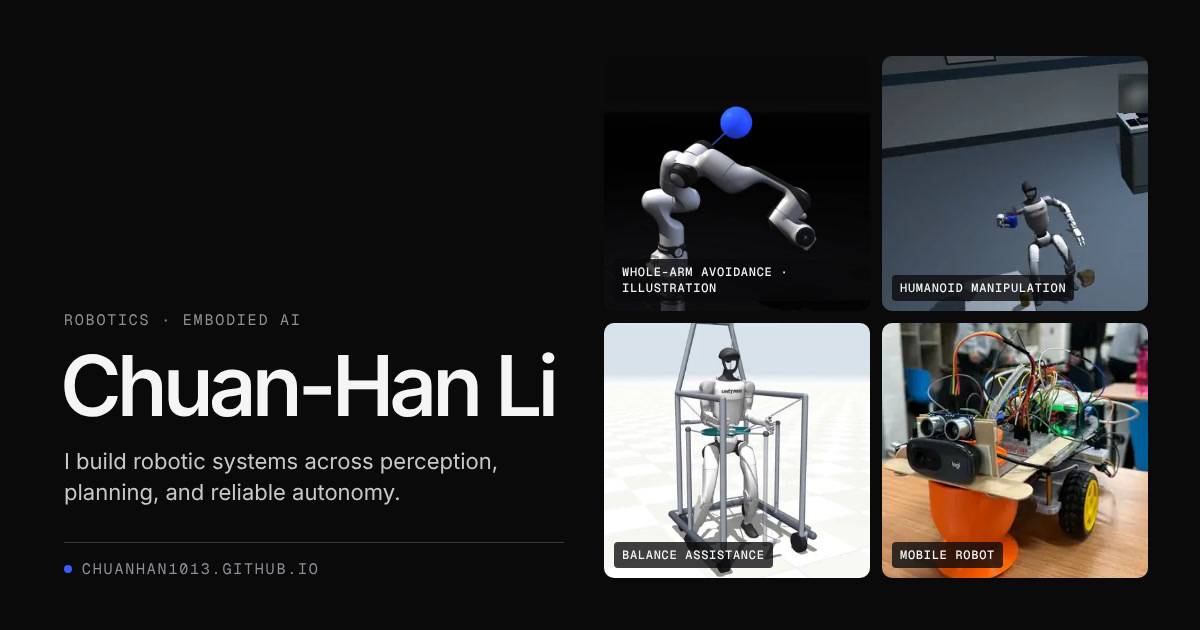
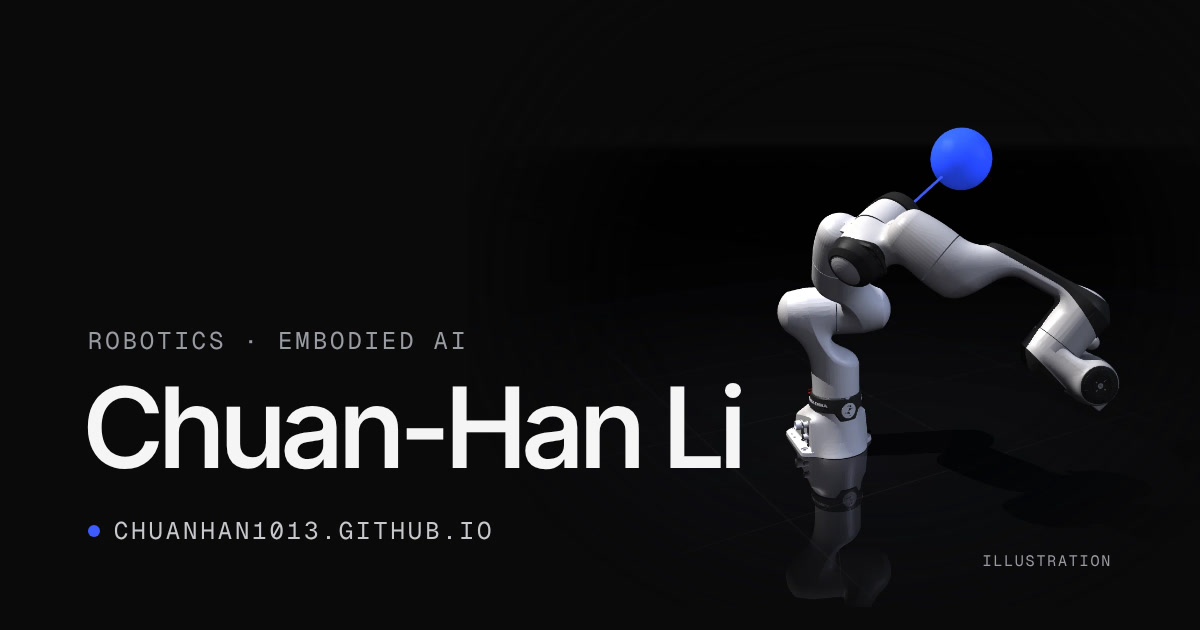
Social preview card for small sizes; cleaning robot score out of 120
- The preview card is one line of large type and the arm illustration, so it
  still reads as a LinkedIn thumbnail.
- Cleaning robot: 113 / 120, among the top teams.

Claude-Session: https://claude.ai/code/session_01Mr7K3GKAexz3gMKH58bcbh

diff --git a/docs/og/og-image.html b/docs/og/og-image.html
@@ -2,6 +2,11 @@
 <html>
   <head>
     <meta charset="utf-8" />
+    <!--
+      Social preview card (1200×630). Designed for small sizes: LinkedIn shows it as a thumbnail
+      a few hundred pixels wide and may trim the sides, so it carries one line of large type and
+      one image, kept inside a wide margin.
+    -->
     <style>
       @font-face {
         font-family: Inter;
@@ -20,115 +25,70 @@
         margin: 0;
       }
       body {
-        display: grid;
-        grid-template-columns: 500px 1fr;
-        gap: 40px;
+        position: relative;
         width: 1200px;
         height: 630px;
-        padding: 56px 52px 52px 64px;
         overflow: hidden;
         background: #0a0a0b;
         color: #f5f5f6;
         font-family: Inter, sans-serif;
       }
-      .l {
-        display: flex;
-        flex-direction: column;
-        justify-content: flex-end;
+      .arm {
+        position: absolute;
+        top: -38px;
+        right: -128px;
+        width: 860px;
+        mask-image: radial-gradient(ellipse 50% 58% at 47% 48%, #000 52%, transparent 100%);
+      }
+      .text {
+        position: absolute;
+        bottom: 84px;
+        left: 88px;
       }
       .mono {
-        color: #8f9197;
+        color: #9a9ca3;
         font-family: 'Geist Mono', monospace;
-        font-size: 15px;
+        font-size: 24px;
         letter-spacing: 0.12em;
         text-transform: uppercase;
       }
       h1 {
-        margin: 18px 0 0 -4px;
-        font-size: 84px;
+        margin: 20px 0 0 -6px;
+        font-size: 112px;
         font-weight: 560;
         line-height: 0.92;
         letter-spacing: -0.06em;
         white-space: nowrap;
       }
-      .tag {
-        margin-top: 22px;
-        color: #c8c9cd;
-        font-size: 22px;
-        line-height: 1.4;
-      }
       .url {
         display: flex;
         align-items: center;
-        gap: 10px;
-        margin-top: 34px;
-        padding-top: 16px;
-        border-top: 1px solid #3b3c41;
+        gap: 14px;
+        margin-top: 36px;
+        color: #c8c9cd;
       }
       .url::before {
         content: '';
-        width: 8px;
-        height: 8px;
+        width: 12px;
+        height: 12px;
         border-radius: 50%;
         background: #3d5cff;
       }
-      .g {
-        display: grid;
-        grid-template-columns: 1fr 1fr;
-        grid-template-rows: repeat(2, minmax(0, 1fr));
-        gap: 12px;
-        min-height: 0;
-      }
-      .t {
-        position: relative;
-        overflow: hidden;
-        border-radius: 10px;
-        background: #141416;
-      }
-      .t img {
-        display: block;
-        width: 100%;
-        height: 100%;
-        object-fit: cover;
-      }
-      .t b {
+      .note {
         position: absolute;
-        bottom: 10px;
-        left: 10px;
-        padding: 5px 8px;
-        border-radius: 4px;
-        background: rgba(10, 10, 11, 0.78);
-        color: #f5f5f6;
-        font-family: 'Geist Mono', monospace;
-        font-size: 12px;
-        font-weight: 500;
-        letter-spacing: 0.06em;
-        text-transform: uppercase;
+        right: 88px;
+        bottom: 60px;
+        font-size: 15px;
       }
     </style>
   </head>
   <body>
-    <div class="l">
+    <img class="arm" src="tiles/arm.webp" alt="" />
+    <div class="text">
       <div class="mono">Robotics · Embodied AI</div>
       <h1>Chuan-Han Li</h1>
-      <div class="tag">I build robotic systems across perception, planning, and reliable autonomy.</div>
       <div class="url mono">chuanhan1013.github.io</div>
     </div>
-    <div class="g">
-      <div class="t">
-        <img src="tiles/fr3.webp" style="object-position: 50% 40%" /><b>Whole-arm avoidance · illustration</b>
-      </div>
-      <div class="t">
-        <img src="tiles/vla14.webp" style="object-position: 50% 50%" /><b>Humanoid manipulation</b>
-      </div>
-      <div class="t">
-        <img src="tiles/cp2.webp" style="object-position: 50% 35%" /><b>Balance assistance</b>
-      </div>
-      <div class="t">
-        <img src="../../public/assets/media/cleaning-final.webp" style="object-position: 50% 50%" /><b
-          >Mobile robot</b
-        >
-      </div>
-    </div>
+    <div class="note mono">Illustration</div>
   </body>
 </html>

diff --git a/src/content/projects/cleaning-robot.md b/src/content/projects/cleaning-robot.md
@@ -13,8 +13,8 @@ summary: >-
   wall-following, obstacle sensing, red-zone recognition, and a custom vacuum module developed
   through CAD, airflow simulation, prototyping, and testing.
 results:
-  - { value: 113 pts, label: final score }
-  - { value: 70 pts, label: time-based performance }
+  - { value: 113 / 120, label: 'final competition score, among the top teams' }
+  - { value: 70 pts, label: of the score from time-based performance }
 stack:
   - { label: Raspberry Pi, icon: raspberrypi }
   - { label: Arduino, icon: arduino }
@@ -56,4 +56,5 @@ media:
 - **Vacuum module.** Custom-designed and iterated through CAD, CFD airflow simulation, prototyping
   and testing.
 
-The robot scored 113 points in the final competition, 70 of them from time-based performance.
+The robot scored 113 of 120 points in the final competition, among the top teams, with 70 of
+those points from time-based performance.

diff --git a/docs/og/README.md b/docs/og/README.md
@@ -1,7 +1,10 @@
 # Social preview image
 
 `public/assets/og-image.jpg` (1200×630) is the `og:image` for every page, the picture LinkedIn,
-Slack and X show for a shared link. To regenerate it after changing `og-image.html`:
+Slack and X show for a shared link. It is designed for small sizes: one line of large type and
+one image inside a wide margin, because LinkedIn shows it a few hundred pixels wide and may trim
+the sides. `tiles/arm.webp` is a still from the dark studio scene in
+`docs/illustrations/fr3-avoidance/`. To regenerate it after changing `og-image.html`:
 
 ```bash
 # from this directory, with the site's dependencies installed (npm ci)
